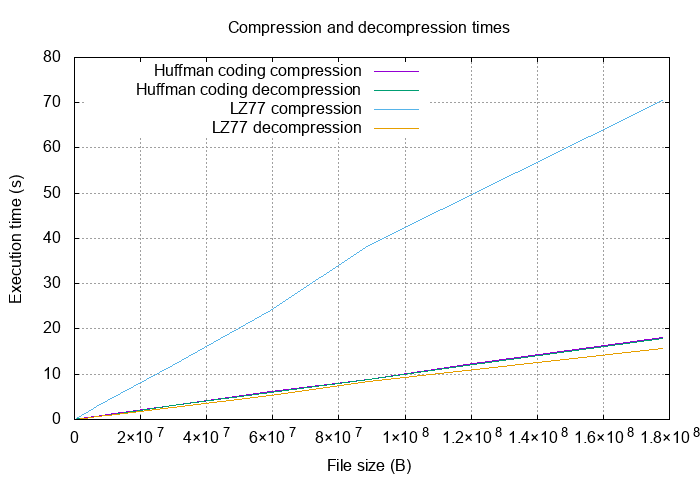
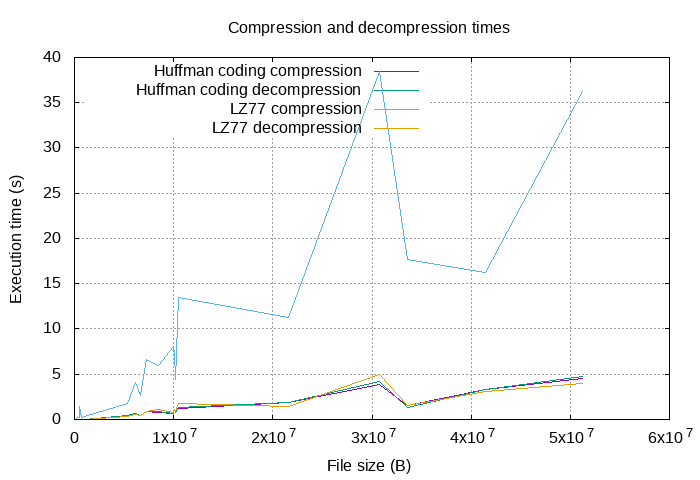
Update implementation document

diff --git a/docs/implementation.template.md b/docs/implementation.template.md
@@ -113,7 +113,38 @@ is not used when decoding and the window takes relatively little space. This is
 why the memory usage of LZ77 decoding is about the same as for Huffman encoding
 and decoding.
 
+The lines in the first two graphs using data for the regular test files are
+jumpy because file size as well as the type of data in a file affects the
+running time and memory usage. The latter two graphs use data from
+`test/files/complexity-analysis`.
+
+#### File set `test/files`
+
 {{ .Gnuplot "execution-times" `
+set title "Compression and decompression times"
+set xlabel "File size (B)"
+set ylabel "Execution time (s)"
+set key left top
+plot Huffman using 6:2 skip 1 smooth unique title "Huffman coding compression", \
+  Huffman using 6:4 skip 1 smooth unique title "Huffman coding decompression", \
+  LZ77 using 6:2 skip 1 smooth unique title "LZ77 compression", \
+  LZ77 using 6:4 skip 1 smooth unique title "LZ77 decompression"
+` }}
+
+{{ .Gnuplot "memory-usage" `
+set title "Compression and decompression peak memory usage"
+set xlabel "File size (B)"
+set ylabel "Peak memory usage (B)"
+set key right top
+plot Huffman using 6:3 skip 1 smooth unique title "Huffman coding compression", \
+  Huffman using 6:5 skip 1 smooth unique title "Huffman coding decompression", \
+  LZ77 using 6:3 skip 1 smooth unique title "LZ77 compression", \
+  LZ77 using 6:5 skip 1 smooth unique title "LZ77 decompression"
+` }}
+
+#### File set `test/files/complexity-analysis`
+
+{{ .Gnuplot "execution-times-complexity" `
 set title "Compression and decompression times"
 set xlabel "File size (B)"
 set ylabel "Execution time (s)"
@@ -124,7 +155,7 @@ plot HuffmanComplexity using 6:2 skip 1 smooth unique title "Huffman coding comp
   LZ77Complexity using 6:4 skip 1 smooth unique title "LZ77 decompression"
 ` }}
 
-{{ .Gnuplot "memory-usage" `
+{{ .Gnuplot "memory-usage-complexity" `
 set title "Compression and decompression peak memory usage"
 set xlabel "File size (B)"
 set ylabel "Peak memory usage (B)"
@@ -148,3 +179,4 @@ greatly optimized from their current state.
 - Sadakane, Kunihiko & Imai, Hiroshi. (2000). Improving the Speed of LZ77
   Compression by Hashing and Suffix Sorting. IEICE Transactions on Fundamentals
   of Electronics Communications and Computer Sciences. E83A. 
+- http://michael.dipperstein.com/lzss/

diff --git a/docs/implementation.md b/docs/implementation.md
@@ -99,9 +99,27 @@ is not used when decoding and the window takes relatively little space. This is
 why the memory usage of LZ77 decoding is about the same as for Huffman encoding
 and decoding.
 
+The lines in the first two graphs using data for the regular test files are
+jumpy because file size as well as the type of data in a file affects the
+running time and memory usage. The latter two graphs use data from
+`test/files/complexity-analysis`.
+
+#### File set `test/files`
+
 ![execution-times](images/execution-times.png)
 
 ![memory-usage](images/memory-usage.png)
+
+#### File set `test/files/complexity-analysis`
+
+![execution-times-complexity](images/execution-times-complexity.png)
+
+![memory-usage-complexity](images/memory-usage-complexity.png)
+
+## Possible improvements
+
+I didn't notice any bugs in either algorithm, but both can most likely be
+greatly optimized from their current state.
 
 ## Sources
 
@@ -111,3 +129,4 @@ and decoding.
 - Sadakane, Kunihiko & Imai, Hiroshi. (2000). Improving the Speed of LZ77
   Compression by Hashing and Suffix Sorting. IEICE Transactions on Fundamentals
   of Electronics Communications and Computer Sciences. E83A. 
+- http://michael.dipperstein.com/lzss/
